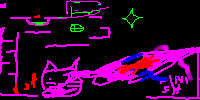
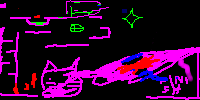
There is now a finish place and spaw3n point in the level.

Changed region(s): [[0.75, 0.45, 0.87, 0.51], [0.6, 0.09, 0.66, 0.15], [0.48, 0.09, 0.51, 0.12]]

diff --git a/Purple/Level.cpp b/Purple/Level.cpp
@@ -2,19 +2,35 @@
 
 Level::Level(std::string map_image_file, std::string block_texture_file, std::string hidden_texture_file, std::string spike_texture_file)
 {
-	map.loadFromFile(map_image_file);
 	block_texture.loadFromFile(block_texture_file);
 	hidden_texture.loadFromFile(hidden_texture_file);
 	spike_texture.loadFromFile(spike_texture_file);
+	finish_texture.loadFromFile("finish.png");
+
+	map.loadFromFile(map_image_file);
 	size = map.getSize();
+
+	for (float i = 0; i < size.x; i++)
+		for (float j = 0; j < size.y; j++)
+		{
+			if (map.getPixel(i, j) == sf::Color(100, 0, 0, 255))
+				spawn = { i, j };
+			else if (map.getPixel(i, j) == sf::Color(0, 0, 100, 255))
+			{
+				Entity finish_entity(false, false, false);
+				finish_entity.setTexture(finish_texture);
+				finish_entity.setPosition(i * tex_size, j * tex_size);
+				finish.push_back(finish_entity);
+				entities.push_back(finish_entity);
+			}
+		}
+
 	update();	
 }
 
 
 void Level::update()
 {
-	entities.clear();
-
 	for (int i = 0; i < size.x; i++)
 		for (int j = 0; j < size.y; j++)
 		{

diff --git a/Purple/main.cpp b/Purple/main.cpp
@@ -10,7 +10,7 @@ int main()
 {
 	// Create Player and Level
 	Level level1 = Level("level2.png", "tile2.png", "tile_hidden.png", "spike.png");
-	Player player = Player({ 2, 2 }, { 1, 1 }, "purple2.png");
+	Player player = Player({ 2, 2 }, level1.spawn, "purple2.png");
 	
 	// Create window and view
 	sf::View view;
@@ -61,6 +61,11 @@ int main()
 			sf::Keyboard::isKeyPressed(sf::Keyboard::Right),
 			sf::Keyboard::isKeyPressed(sf::Keyboard::Space),
 			level1.entities, frame_time.asMilliseconds());
+
+
+		for (int i = 0; i < level1.finish.size(); i++)
+			if (player.getGlobalBounds().intersects(level1.finish[i].getGlobalBounds()))
+				window.close();
 
 		// Center the view around the player and check that it doesn't show anything outside the level
 		sf::Vector2f view_center = player.getPosition();

diff --git a/Purple/Level.h b/Purple/Level.h
@@ -1,6 +1,7 @@
 #pragma once
 #include <iostream>
 #include <string>
+#include <vector>
 #include <SFML/Graphics.hpp>
 #include "Entity.h"
 #include "constants.h"
@@ -19,14 +20,23 @@ private:
 	// Texture used for spikes
 	sf::Texture spike_texture;
 
+	// Texture used for finish
+	sf::Texture finish_texture;
+
 	// Layout of the level in image form
 	sf::Image map; 
 
 	// Current active world
-	int world = 0; 
+	int world = 0;
 
 public:
 	Level(std::string map_image_file, std::string block_texture_file, std::string hidden_texture_file, std::string spike_texture_file);
+
+	// Player spawn point
+	sf::Vector2f spawn = { 0, 0 };
+
+	// Finish point
+	std::vector<Entity> finish;
 
 	// Changes the level map
 	void flip(int to);

diff --git a/Purple/Player.h b/Purple/Player.h
@@ -22,13 +22,13 @@ private:
 	float horizontalAccelerationDown = 0.003;
 	
 	// Maximum horizontal speed
-	float horizontalSpeedCap = 0.6;
+	float horizontalSpeedCap = 0.4;
 
 	// Height in tex_sizes
 	float jump_height = 10;
 
 	// Time to reach maximum trajectory height
-	sf::Time jump_time = sf::Time(sf::milliseconds(1000));
+	sf::Time jump_time = sf::Time(sf::milliseconds(900));
 
 	// Gravitational acceleration
 	float gravity = 2 * jump_height*tex_size / jump_time.asMilliseconds() / jump_time.asMilliseconds();
